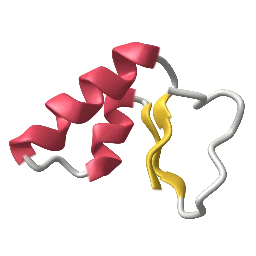
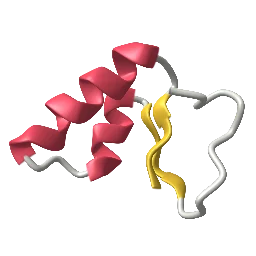
Phase Molecule viewer polish: thumbnail, screenshots and handoff
Claude-Session: https://claude.ai/code/session_01VH1LZ7W6aVCPiAXX2AGXYc

diff --git a/docs/handoff/MolView.md b/docs/handoff/MolView.md
@@ -10,24 +10,24 @@ Molecule viewer: open a molecule, or fetch one by its PDB code". Handoff file:
 docs/handoff/MolView.md (create it; start it with this brief, word for word, under "## Brief", then
 keep "## State
 
-READY (October 5, 2026): built, tested and the clips posted. Waiting on the owner's marks and the
-merges (engine PR #300 first, then #295).
+READY (October 5, 2026, evening): #300 (engine) and #295 (the toy) merged. Polish round on
+`claude/lane-molecule-viewer-polish`, PR #317 ("Phase Molecule viewer polish: sharper atoms, ribbons
+and surface"), from the Operator's message of 15:42 UTC quoting the owner: "the toys could still be
+sharper".
 
-- Clips on Effect review page 2 (lane record `MolView`, which the Operator still has to create):
-  `mol-measure-crambin`, `mol-measure-caffeine`, `mol-fetch-1ema`, `mol-dna-1bna`,
-  `mol-surface-1lyz`, `mol-spacefill-1crn`, `mol-big-1aon-phone`.
-- Engine PR #300 ("Engine: a tap can say something, and a toy's panel can take dropped files",
-  branch `claude/lane-molecule-viewer-engine`) should merge first; this branch has it merged in.
-- The toy `molecule-viewer` (labs, Atoms shelf): `src/packs/molecule-viewer.js` and `src/molview/`
-  (parse, worker, load, geom, draw, radii).
-- Samples (a dated snapshot, fetched October 5, 2026, CC0): 1CRN, 1EMA, 1LYZ, 1BNA (DNA) and
-  caffeine (Chemical Component CFF, ideal coordinates), in `assets/toys/molecule-viewer/`.
-- Tests: `tests/mol.spec.mjs` (27; the RCSB fetch mocked twice, in Node and with `page.route`),
-  `tests/mol-engine.spec.mjs` (2). Evidence: `docs/evidence/molecule-viewer.json`.
-- Tools: `tools/mol-clip.mjs` (phone-size MP4 clips of the whole page, the toast included),
-  `tools/mol-shot.mjs` (stills).
+- Done: twice the kit's splat budget (within the tier caps), the labs sharp kernel, denser ribbons
+  and balls, a surface refined onto its true level with exact normals and blended color seams,
+  ambient occlusion for space-filling and surface, clips and stills at a phone's device pixel ratio
+  of 2.
+- Clips beside the old ones on Effect review page 2: `molp-measure-crambin`,
+  `molp-measure-caffeine`, `molp-fetch-1ema`, `molp-dna-1bna`, `molp-surface-1lyz`,
+  `molp-spacefill-1crn`, `molp-big-1aon-phone`. Thumbnail and screenshots re-rendered.
 
 ## Notes
+
+- Polish round: phones draw the canvas at a device pixel ratio of up to 2 (the stage's cap), so
+  `tools/mol-clip.mjs` and `tools/mol-shot.mjs` render at 2 by default (`--dpr=1` / `DPR=1` for the
+  old size). The first round's clips were at 1 and looked softer than a phone shows.
 
 - Readers: PDB (fixed columns, HELIX/SHEET, CONECT, JRNL, AUTHOR, REMARK 2), mmCIF (streamed through
   `eachCifToken`/`readCif` from `src/chem/protein.js`; `_struct_conf`, `_struct_sheet_range`,
